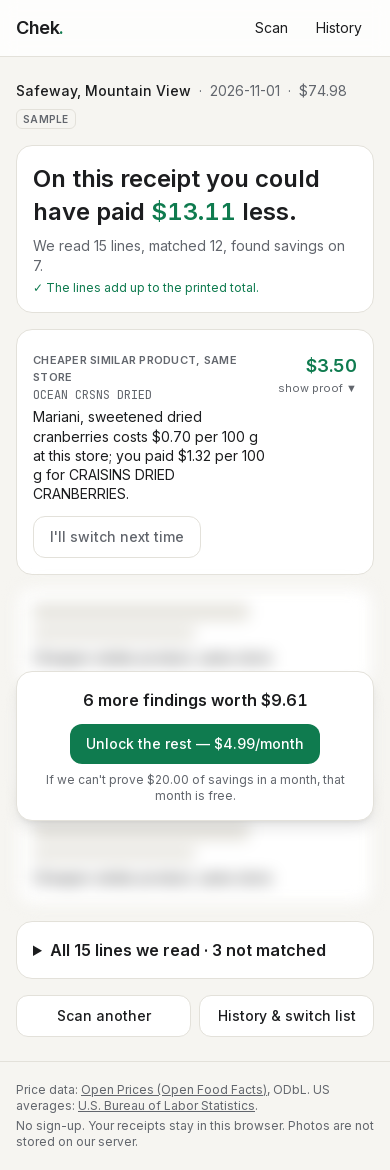
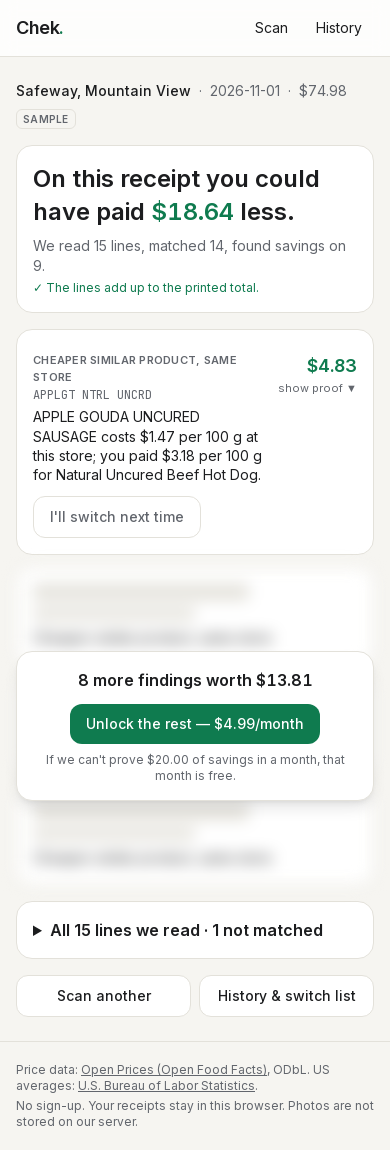
Match prompt: a brand's product lines are different products
Fixes gpt-5.4-mini matching Applegate Naturals to Applegate Organics. eval:match now 98.2% precision, 96.5% recall.

diff --git a/README.md b/README.md
@@ -80,13 +80,13 @@ matching, findings, pledge checks, the guarantee counter and inflation are all c
 | Parse: sum check passes | 5 / 5 | `npm run eval:parse` |
 | Parse: parsed total equals known total | 5 / 5 | `npm run eval:parse` |
 | Parse: median time per receipt | 4.8 s | `npm run eval:parse` |
-| Match precision (target: wrong matches under 5%) | 96–98% over 3 runs (1–2 wrong of ~55) | `npm run eval:match` |
-| Match recall | 91–95% | `npm run eval:match` |
+| Match precision (target: wrong matches under 5%) | 98.2% (1 wrong of 56) | `npm run eval:match` |
+| Match recall | 96.5% | `npm run eval:match` |
 | Model cost per scan (token counts × list price) | about $0.03 | both evals print token totals |
 | Unit tests | 30 passing | `npm test` |
 
-Typical wrong matches: two sizes of the same Pop-Tarts at a store outside the demo area, where no
-store price was available to tell them apart, and two flavours of the same Daiya pizza. Put real receipt photos in `eval/real/` (git-ignored) and
+The one wrong match: two sizes of the same Pop-Tarts at a store outside the demo area, where no
+store price was available to tell them apart. (Earlier runs also mixed up two Daiya pizza flavours.) Put real receipt photos in `eval/real/` (git-ignored) and
 `npm run eval:parse` reports them separately.
 
 ## Paywall and return loop
@@ -143,7 +143,7 @@ Requires Node 20+. Environment variables are listed in `.env.example`.
   only your own history and BLS averages are compared.
 - Reference observations are up to 100 days old (the smallest window that keeps 300+ products priced
   at 2+ stores). The observation date is always shown next to a price.
-- Matching prefers no match to a wrong match, so some lines stay unmatched (recall 91–95% on samples).
+- Matching prefers no match to a wrong match, so some lines stay unmatched (recall about 95% on samples).
   Ambiguous abbreviations can be matched differently on a first scan; repeat scans on the same
   server reuse the cached match.
 - "Cheaper similar product" relies on Open Food Facts categories; it requires a specific category,

diff --git a/docs/DECISIONS.md b/docs/DECISIONS.md
@@ -82,7 +82,8 @@ Public URL: https://54-163-135-214.nip.io. Remove everything with `scripts/teard
   | Setup | Precision | Recall | Scan time | Cost per scan |
   |---|---|---|---|---|
   | `gpt-5.5` for both (before) | 98.1% | 89.5% | 9–10 s | ~$0.056 |
-  | **`gpt-5.5` parse + `gpt-5.4-mini` match (now)** | 96–98% (3 runs) | 91–95% | 8–10 s | ~$0.029 |
+  | `gpt-5.5` parse + `gpt-5.4-mini` match, old prompt | 96–98% (3 runs) | 91–95% | 8–10 s | ~$0.029 |
+  | **same, prompt rule on brand product lines (now)** | 98.2% | 96.5% | 8–10 s | ~$0.029 |
   | `gpt-5.5` parse + `gpt-5-mini` match | 96.4% | 93.0% | 14–19 s | ~$0.025 |
   | `gpt-5.4-mini` for both | 87% (parse sometimes adds a line) | 82.5% | — | ~$0.010 |
   | `gpt-5-mini` for both | 96.3% | 91.2% | parse alone ~20 s | ~$0.007 |
@@ -91,6 +92,9 @@ Public URL: https://54-163-135-214.nip.io. Remove everything with `scripts/teard
   Matching is about two thirds of the input tokens, so a cheaper match model halves the cost
   without slowing the scan. Reading the photo stays on the stronger model: the mini models
   passed the sum check less reliably, and real phone photos are harder than the samples.
+- With `gpt-5.4-mini`, "APPLGT NTRL UNCRD" (Applegate Naturals hot dogs) was sometimes matched to
+  the Applegate Organics hot dog. Added a prompt rule: a brand's product lines are different
+  products, and every abbreviated word must fit the candidate. After it: never the wrong line.
 - Amazon Bedrock as the provider (checked 2026-11-15): models are listed in us-east-1, but every
   call is throttled or refused. The account's Bedrock on-demand quotas are 0 (for example "Model
   invocation max tokens per day for Amazon Nova 2 Lite" = 0), and Anthropic and OpenAI models on

diff --git a/prompts/match.md b/prompts/match.md
@@ -10,6 +10,9 @@ Rules:
   "whole" milk; 32 oz is not 64 oz; organic is not conventional.
 - Store-brand abbreviations are common (e.g. "SIG" Signature Select, "O ORGANICS",
   "LUC" Lucerne, "365" Whole Foods 365, "KS" Kirkland Signature, "TJ" Trader Joe's).
+- A brand's product lines are different products: a brand's "Naturals" line is not its
+  "Organics" line. Every abbreviated word on the line (e.g. "NTRL" natural, "ORG" organic) must fit
+  the chosen candidate's name or brand; if a word contradicts it, that candidate is wrong.
 - `confidence` is your probability (0 to 1) that the chosen candidate is exactly the product
   bought. Use 0.9+ only when name, brand and size all agree with the printed line and price.
 - When a candidate shows its price at this store, a paid price that matches it is strong
